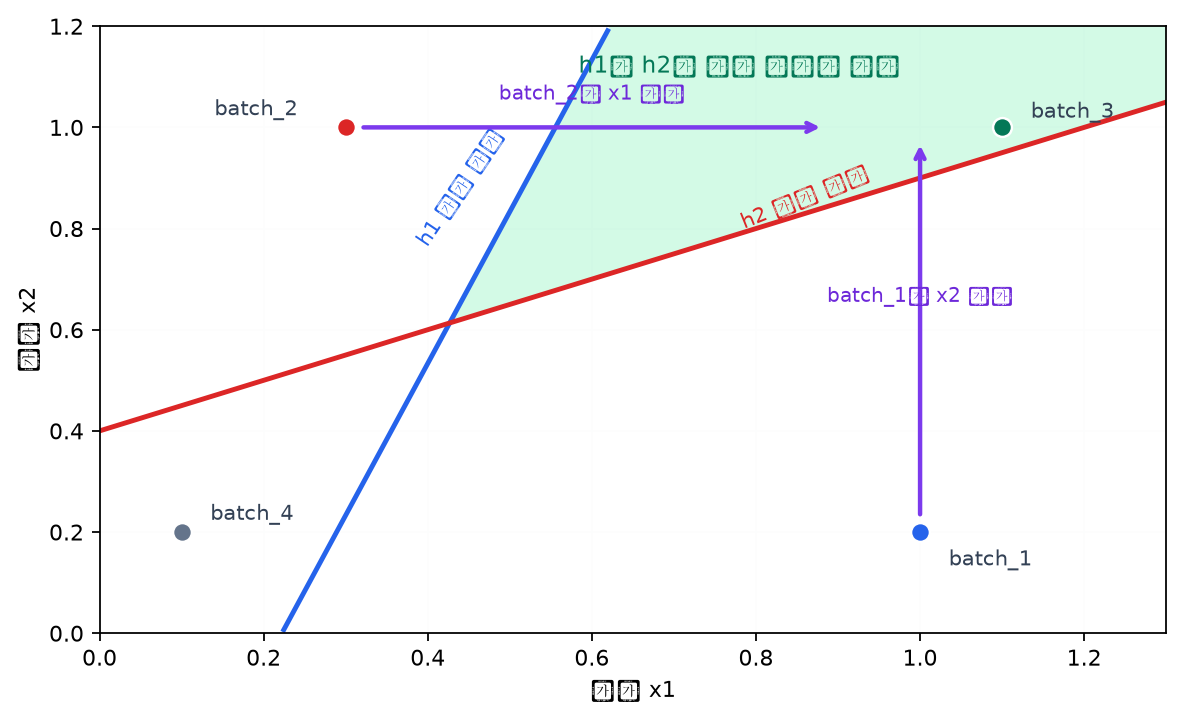
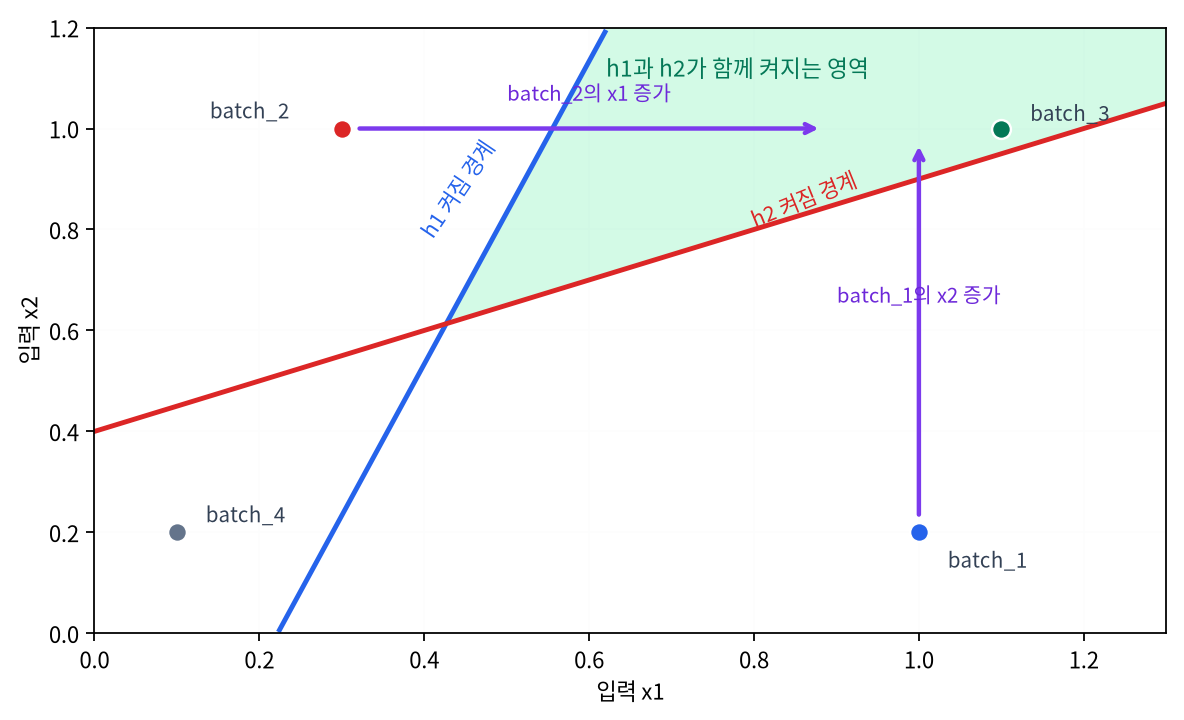
docs: update part 5 chart examples

diff --git a/docs/assets/part-05/chapter-02/p5_2_2_hidden_axis_chart.py b/docs/assets/part-05/chapter-02/p5_2_2_hidden_axis_chart.py
@@ -1,4 +1,11 @@
 from pathlib import Path
+import os
+
+REPO_ROOT = Path(__file__).resolve().parents[4]
+MPL_CACHE = REPO_ROOT / ".tmp" / "matplotlib-cache"
+MPL_CACHE.mkdir(parents=True, exist_ok=True)
+os.environ.setdefault("MPLCONFIGDIR", str(MPL_CACHE))
+os.environ.setdefault("XDG_CACHE_HOME", str(MPL_CACHE))
 
 import matplotlib
 
@@ -8,8 +15,7 @@ from matplotlib import font_manager
 import numpy as np
 
 
-ROOT = Path(__file__).resolve().parents[4]
-OUT_DIR = ROOT / "docs" / "assets" / "part-05" / "chapter-02"
+OUT_DIR = REPO_ROOT / "docs" / "assets" / "part-05" / "chapter-02"
 
 FRAMES = [
     ("needle_dominant_frame", [1.0, 0.2, 0.1]),

diff --git a/docs/assets/part-05/chapter-02/p5_2_1_hidden_pattern_regions.py b/docs/assets/part-05/chapter-02/p5_2_1_hidden_pattern_regions.py
@@ -31,7 +31,7 @@ FOLLOW_UPS = {
 
 LANG_TEXT = {
     "ko": {
-        "font_candidates": ["Apple SD Gothic Neo", "AppleGothic", "Arial Unicode MS", "DejaVu Sans"],
+        "font_candidates": ["Noto Sans CJK KR", "Apple SD Gothic Neo", "AppleGothic", "Arial Unicode MS", "DejaVu Sans"],
         "xlabel": "입력 x1",
         "ylabel": "입력 x2",
         "h1": "h1 켜짐 경계",

diff --git a/management/release-notes/sections/part-05/P5-2.1.md b/management/release-notes/sections/part-05/P5-2.1.md
@@ -3,6 +3,9 @@
 - Section ID: `P5-2.1`
 - Source File: `docs/parts/part-05/chapter-02/section-01.md`
 
+### v2026.07.19
+- Python 자산 점검: 은닉 패턴 영역 차트 생성 스크립트의 한국어 폰트 후보에 Noto Sans CJK KR을 추가해, Linux 검증 환경에서 한글 글리프 누락 경고 없이 차트를 재생성할 수 있게 했다.
+
 ### v2026.07.17
 - 본문 반영: `깊게 다루지 않습니다` 목록을 제거하고, 이번 절은 층을 더 쌓으면 무엇이 달라지는지와 은닉층이 왜 필요한지를 먼저 붙잡은 뒤 표현·활성화·역전파 연결은 뒤 절로 넘기는 구조로 범위 안내를 정리했다.
 - 번역 동기화 메모: `docs/parts/part-05/chapter-02/section-01.en.md`에 같은 범위 안내 단순화와 handoff 문장, 사례·실험 구조를 반영했다.

diff --git a/management/release-notes/sections/part-05/P5-2.2.md b/management/release-notes/sections/part-05/P5-2.2.md
@@ -5,6 +5,7 @@
 
 ### v2026.07.19
 - 참조 갱신: P5-14 병합 구조에 맞춰 attention 기반 표현 handoff를 P5-14.1부터 P5-14.6까지의 Transformer 본편으로 갱신했다.
+- Python 자산 점검: 은닉축 차트 생성 스크립트에 저장소 내부 Matplotlib 캐시 경로 설정을 추가해, 쓰기 불가능한 사용자 홈 캐시 경고 없이 실행되도록 했다.
 - 번역 동기화 메모: 영어·중국어 번역본의 Version을 `v2026.07.19`로 올리고, attention 기반 표현 handoff를 P5-14.1~P5-14.6 Transformer 본편 기준으로 갱신했다.
 - 번역 반영 상태: 영문 번역 반영 완료 / 중문 번역 반영 완료
 - 원문 기준 버전: `v2026.07.19`
